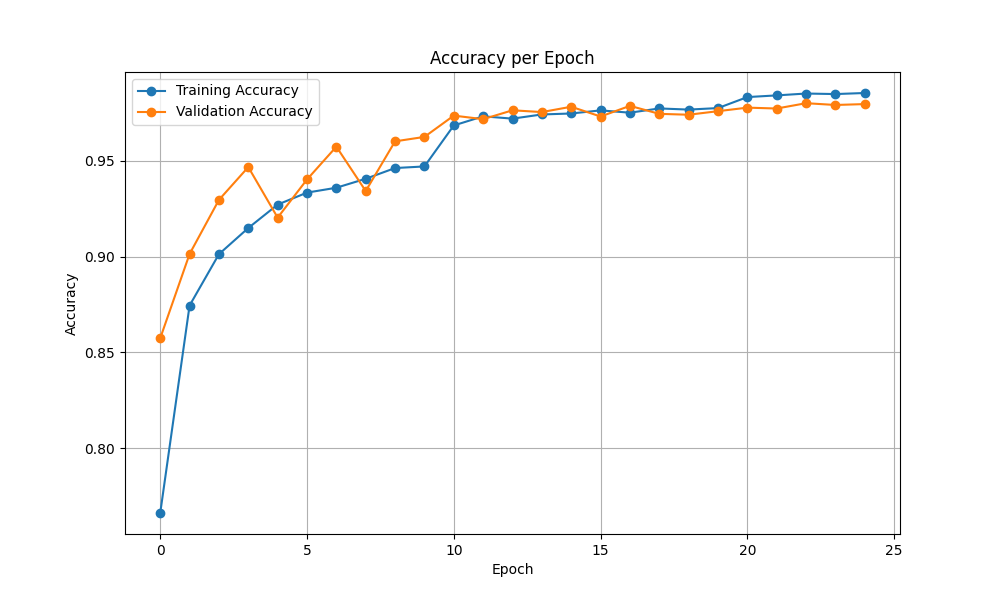
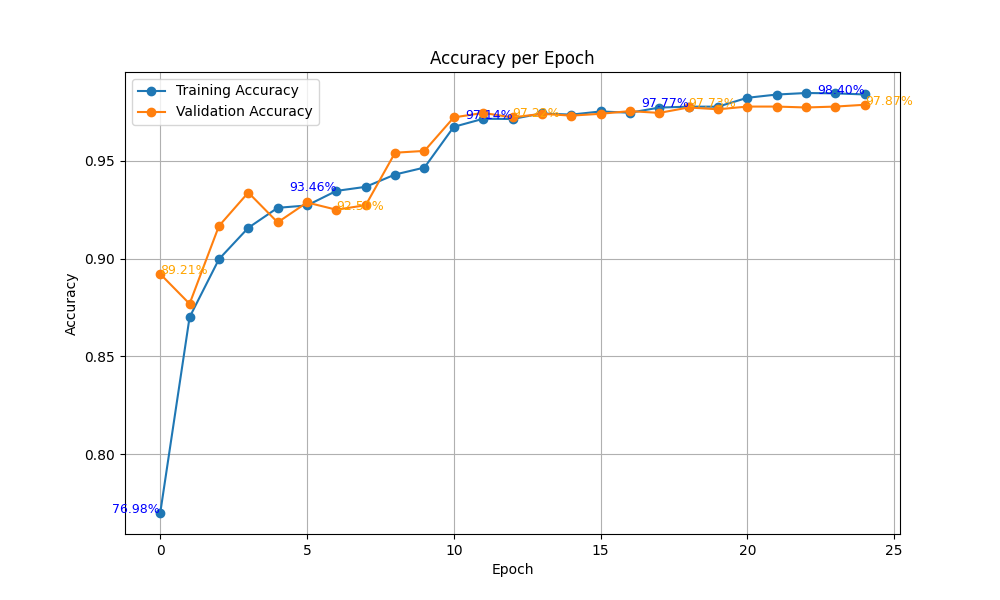
some adj in metrics and plots

diff --git a/utils/metrics.py b/utils/metrics.py
@@ -1,8 +1,7 @@
 import os
 import numpy as np
 import matplotlib.pyplot as plt
-from sklearn.metrics import confusion_matrix, accuracy_score
-from tqdm import tqdm
+from sklearn.metrics import confusion_matrix
 
 
 def plot_metrics(train_losses, val_losses, train_accuracies, val_accuracies, test_accuracy, output_dir):
@@ -23,6 +22,12 @@ def plot_metrics(train_losses, val_losses, train_accuracies, val_accuracies, tes
     plt.figure(figsize=(10, 6))
     plt.plot(train_losses, label='Training Loss', marker='o')
     plt.plot(val_losses, label='Validation Loss', marker='o')
+    for i, loss in enumerate(train_losses):
+        if i == 0 or i == len(train_losses) - 1 or i % (len(train_losses) // 4) == 0:
+            plt.text(i, loss, f"{loss:.2f}", fontsize=9, ha='right', color='blue')
+    for i, loss in enumerate(val_losses):
+        if i == 0 or i == len(val_losses) - 1 or i % (len(val_losses) // 4) == 0:
+            plt.text(i, loss, f"{loss:.2f}", fontsize=9, ha='left', color='orange')
     plt.title('Loss per Epoch')
     plt.xlabel('Epoch')
     plt.ylabel('Loss')
@@ -37,6 +42,12 @@ def plot_metrics(train_losses, val_losses, train_accuracies, val_accuracies, tes
     plt.figure(figsize=(10, 6))
     plt.plot(train_accuracies, label='Training Accuracy', marker='o')
     plt.plot(val_accuracies, label='Validation Accuracy', marker='o')
+    for i, acc in enumerate(train_accuracies):
+        if i == 0 or i == len(train_accuracies) - 1 or i % (len(train_accuracies) // 4) == 0:
+            plt.text(i, acc, f"{acc*100:.2f}%", fontsize=9, ha='right', color='blue')
+    for i, acc in enumerate(val_accuracies):
+        if i == 0 or i == len(val_accuracies) - 1 or i % (len(val_accuracies) // 4) == 0:
+            plt.text(i, acc, f"{acc*100:.2f}%", fontsize=9, ha='left', color='orange')
     plt.title('Accuracy per Epoch')
     plt.xlabel('Epoch')
     plt.ylabel('Accuracy')
@@ -47,16 +58,21 @@ def plot_metrics(train_losses, val_losses, train_accuracies, val_accuracies, tes
     plt.close()
     print(f"Accuracy plot saved at: {acc_plot_path}")
 
-    # Plot Test Accuracy
+    # Compare the test accuracy with the training and validation accuracy of the last epoch
     plt.figure(figsize=(10, 6))
-    plt.bar(["Test Accuracy"], [test_accuracy * 100], color="skyblue")
-    plt.title('Test Accuracy')
+    accuracies = [train_accuracies[-1] * 100, val_accuracies[-1] * 100, test_accuracy * 100]
+    labels = ["Train Accuracy", "Validation Accuracy", "Test Accuracy"]
+    bars = plt.bar(labels, accuracies, color=["skyblue", "orange", "green"])
+    for bar, acc in zip(bars, accuracies):
+        plt.text(bar.get_x() + bar.get_width() / 2, bar.get_height() - 5, f"{acc:.2f}%",
+                 ha='center', va='bottom', fontsize=10, color='black')
+    plt.title('Model Accuracy Comparison')
     plt.ylabel('Accuracy (%)')
     plt.ylim(0, 100)
-    test_acc_plot_path = os.path.join(output_dir, "test_accuracy.png")
-    plt.savefig(test_acc_plot_path)
+    comparison_plot_path = os.path.join(output_dir, "accuracy_comparison.png")
+    plt.savefig(comparison_plot_path)
     plt.close()
-    print(f"Test accuracy plot saved at: {test_acc_plot_path}")
+    print(f"Accuracy comparison plot saved at: {comparison_plot_path}")
 
 
 def plot_confusion_matrix(y_true, y_pred, classes, output_dir):
@@ -72,32 +88,32 @@ def plot_confusion_matrix(y_true, y_pred, classes, output_dir):
     # Compute the confusion matrix
     cm = confusion_matrix(y_true, y_pred)
 
-    # Normalize the confusion matrix: each row is divided by the row sum
+    # Normalize the confusion matrix
     cm_norm = cm.astype('float') / cm.sum(axis=1)[:, np.newaxis]
 
-    # Create the figure
-    plt.figure(figsize=(8, 6))
+    # Create the plot
+    plt.figure(figsize=(10, 8))
     plt.imshow(cm_norm, interpolation='nearest', cmap=plt.cm.Blues)
     plt.colorbar()
-    plt.title('Normalized Confusion Matrix')
+    plt.title('Normalized Confusion Matrix', fontsize=16)
 
     # Set tick marks and labels
     tick_marks = np.arange(len(classes))
-    plt.xticks(tick_marks, classes, rotation=45, ha="right")
-    plt.yticks(tick_marks, classes)
+    plt.xticks(tick_marks, classes, rotation=45, fontsize=12, ha="right")
+    plt.yticks(tick_marks, classes, fontsize=12)
 
     # Add annotations for each cell
     for i in range(cm.shape[0]):
         for j in range(cm.shape[1]):
             value = f"{cm[i, j]}\n({cm_norm[i, j]:.2f})"
             plt.text(j, i, value, horizontalalignment="center",
-                     color="white" if cm_norm[i, j] > 0.5 else "black")
+                     color="white" if cm_norm[i, j] > 0.5 else "black", fontsize=10)
 
-    plt.ylabel('True Label')
-    plt.xlabel('Predicted Label')
+    plt.ylabel('True Label', fontsize=14)
+    plt.xlabel('Predicted Label', fontsize=14)
     plt.tight_layout()
 
-    # Save the figure to the output directory
+    # Save the plot
     os.makedirs(output_dir, exist_ok=True)
     output_path = os.path.join(output_dir, "confusion_matrix.png")
     plt.savefig(output_path)

diff --git a/main.py b/main.py
@@ -20,6 +20,7 @@ import torch.nn as nn
 import torch.optim as optim
 from torch.cuda.amp import autocast, GradScaler
 from torch.optim.lr_scheduler import ReduceLROnPlateau
+import numpy as np
 
 
 def create_arg_parser():
@@ -36,7 +37,7 @@ def create_arg_parser():
     return parser
 
 
-def process_split(split_name, dataloaders, device, save_dir, load_saved_models):
+def process_split(split_name, dataloaders, device, save_dir, load_saved_models, class_map):
     """
     Processes a single data split: trains and evaluates the model or loads a pre-trained model.
 
@@ -46,11 +47,13 @@ def process_split(split_name, dataloaders, device, save_dir, load_saved_models):
         device (torch.device): Device to use for computations.
         save_dir (str): Directory where models will be saved.
         load_saved_models (bool): Whether to load pre-trained models.
+        class_map (dict): Mapping of class names to integer indices.
+
     Returns:
         dict: Dictionary containing metrics (losses, accuracies, and test accuracy).
     """
     model_path = os.path.join(save_dir, f"model_split_{split_name}.pth")
-    model = HybridModel(num_classes=10).to(device)
+    model = HybridModel(num_classes=len(class_map)).to(device)  # Use the number of classes from class_map
     optimizer = optim.Adam(model.parameters(), lr=1e-4)
     scheduler = optim.lr_scheduler.StepLR(optimizer, step_size=10, gamma=0.2)
     criterion = nn.CrossEntropyLoss()
@@ -73,6 +76,15 @@ def process_split(split_name, dataloaders, device, save_dir, load_saved_models):
     print(f"Testing model for {split_name} split...")
     test_accuracy, y_pred, y_true = test.test_model(model, dataloaders["test"], device)
 
+    # Plot confusion matrix
+    confusion_matrix_output_dir = os.path.join(save_dir, f"confusion_matrix_{split_name}")
+    metrics.plot_confusion_matrix(
+        y_true=np.array(y_true),
+        y_pred=np.array(y_pred),
+        classes=list(class_map.keys()),  # Use class names from class_map
+        output_dir=confusion_matrix_output_dir
+    )
+
     return {
         "train_losses": train_losses,
         "val_losses": val_losses,
@@ -87,6 +99,7 @@ def execute(data_dir, save_dir, load_saved_models):
     print("Loading images into memory...")
     all_images, all_labels, class_map = utils.load_all_images(data_dir)
     print(f"Number of images loaded: {len(all_images)}")
+    print(f"Class map: {class_map}")
 
     # Create splits
     splits = {
@@ -132,7 +145,14 @@ def execute(data_dir, save_dir, load_saved_models):
         print(f"\nProcessing {split_name} split...")
         split_output_dir = os.path.join(output_dir, split_name)
         os.makedirs(split_output_dir, exist_ok=True)
-        results[split_name] = process_split(split_name, dataloaders[split_name], device, save_dir, load_saved_models)
+        results[split_name] = process_split(
+            split_name,
+            dataloaders[split_name],
+            device,
+            save_dir,
+            load_saved_models,
+            class_map  # Pass class_map to process_split
+        )
         metrics.plot_metrics(
             train_losses=results[split_name]["train_losses"],
             val_losses=results[split_name]["val_losses"],
